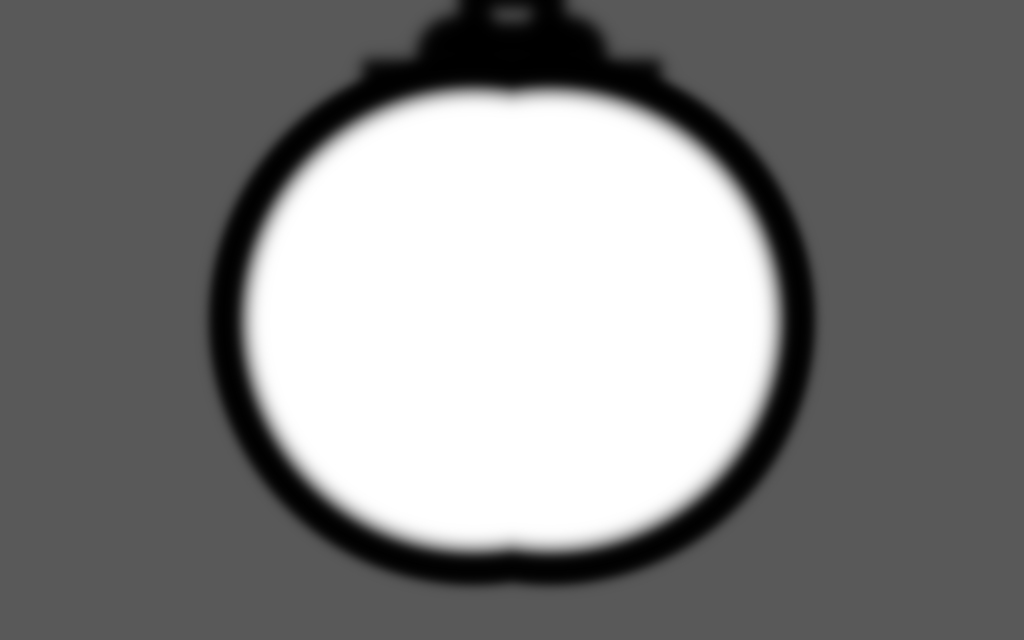
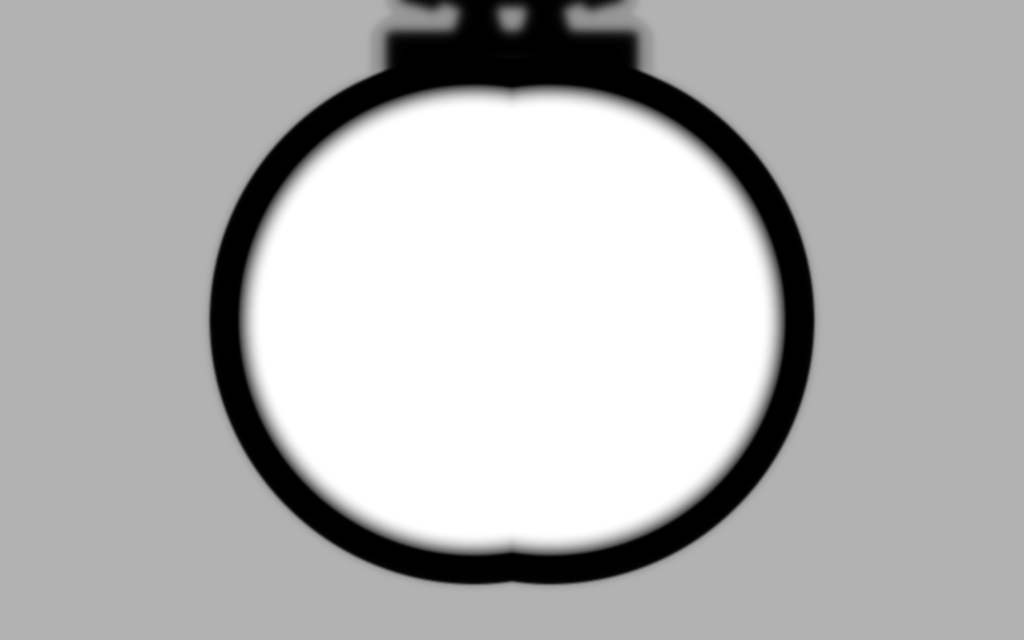
forced ambient change disabling, updated mask textures, included new patch for ISB by bullet

diff --git a/BorkelRNVG/Plugin.cs b/BorkelRNVG/Plugin.cs
@@ -13,7 +13,7 @@ using HarmonyLib;
 
 namespace BorkelRNVG
 {
-    [BepInPlugin("com.borkel.nvgmasks", "Borkel's Realistic NVGs", "2.2.1")]
+    [BepInPlugin("com.borkel.nvgmasks", "Borkel's Realistic NVGs", "2.2.3")]
     public class Plugin : BaseUnityPlugin
     {
         public static new ManualLogSource Logger;
@@ -72,7 +72,19 @@ namespace BorkelRNVG
             globalMaskSize.SettingChanged += (_, _) => NvgHelper.ApplyNightVisionSettings();
             globalGain = Config.Bind(Category.globalCategory, "2. Gain multiplier", 1f, new ConfigDescription("Applies gain multiplier to all NVGs", new AcceptableValueRange<float>(0f, 5f)));
             globalGain.SettingChanged += (_, _) => NvgHelper.ApplyNightVisionSettings();
-            allowAmbientChange = Config.Bind(Category.globalCategory, "3. Allow ambient change", false, new ConfigDescription("Toggles whether night vision affects ambient lighting.", null));
+            allowAmbientChange = Config.Bind(
+                Category.globalCategory,
+                "3. Allow ambient change",
+                false,
+                new ConfigDescription(
+                    "Toggles whether night vision affects ambient lighting.",
+                    null,
+                    new ConfigurationManagerAttributes
+                    {
+                        Browsable = false
+                    }));
+
+            allowAmbientChange.Value = false;
             allowAmbientChange.SettingChanged += (sender, e) => AmbientPatch.TogglePatch(!allowAmbientChange.Value);
             
             // Global, lens distortion settings
